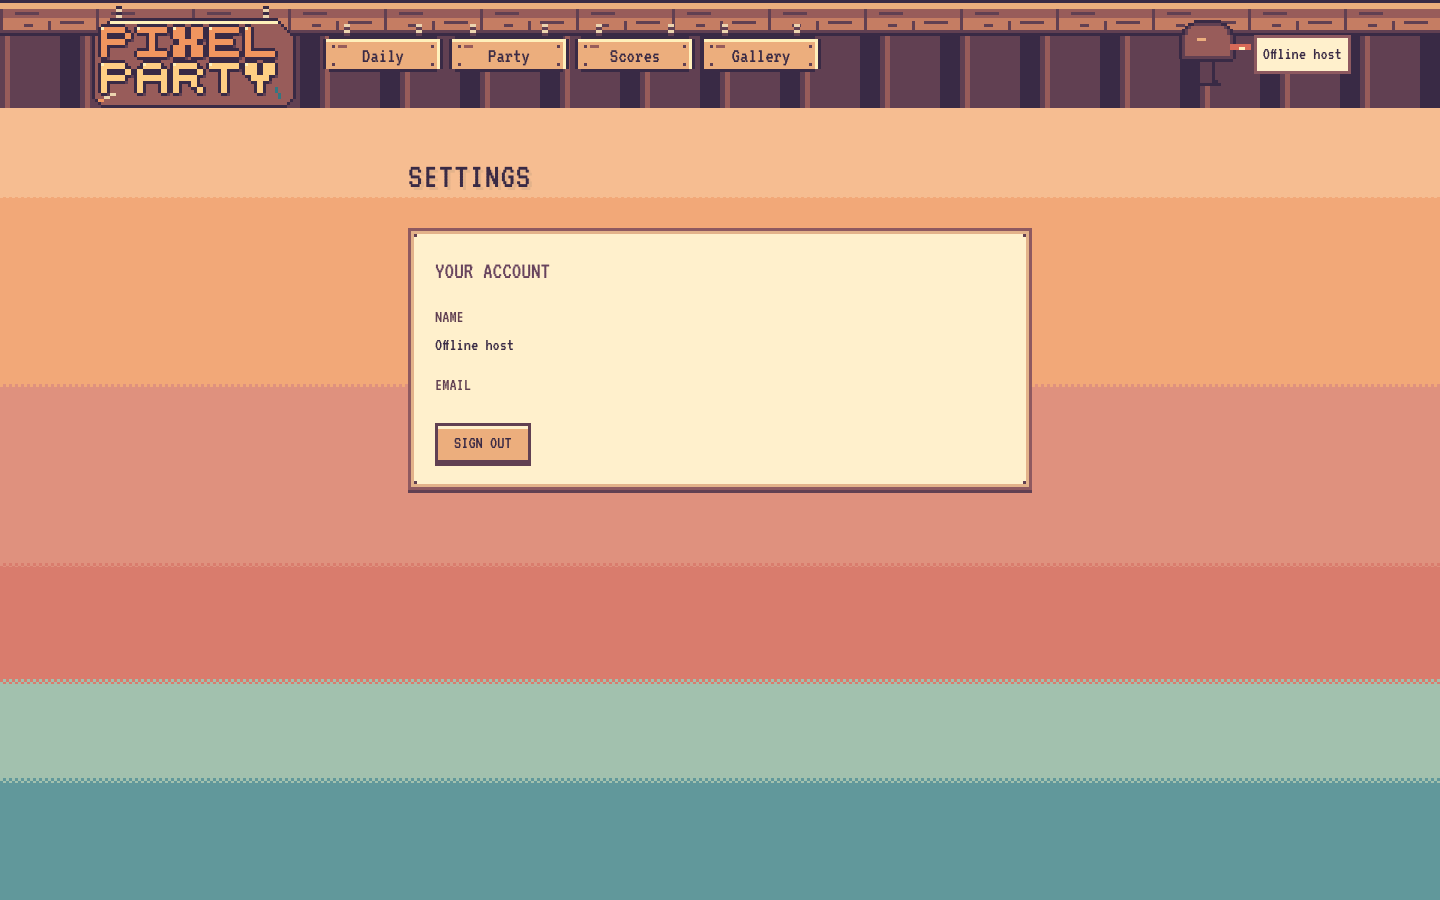
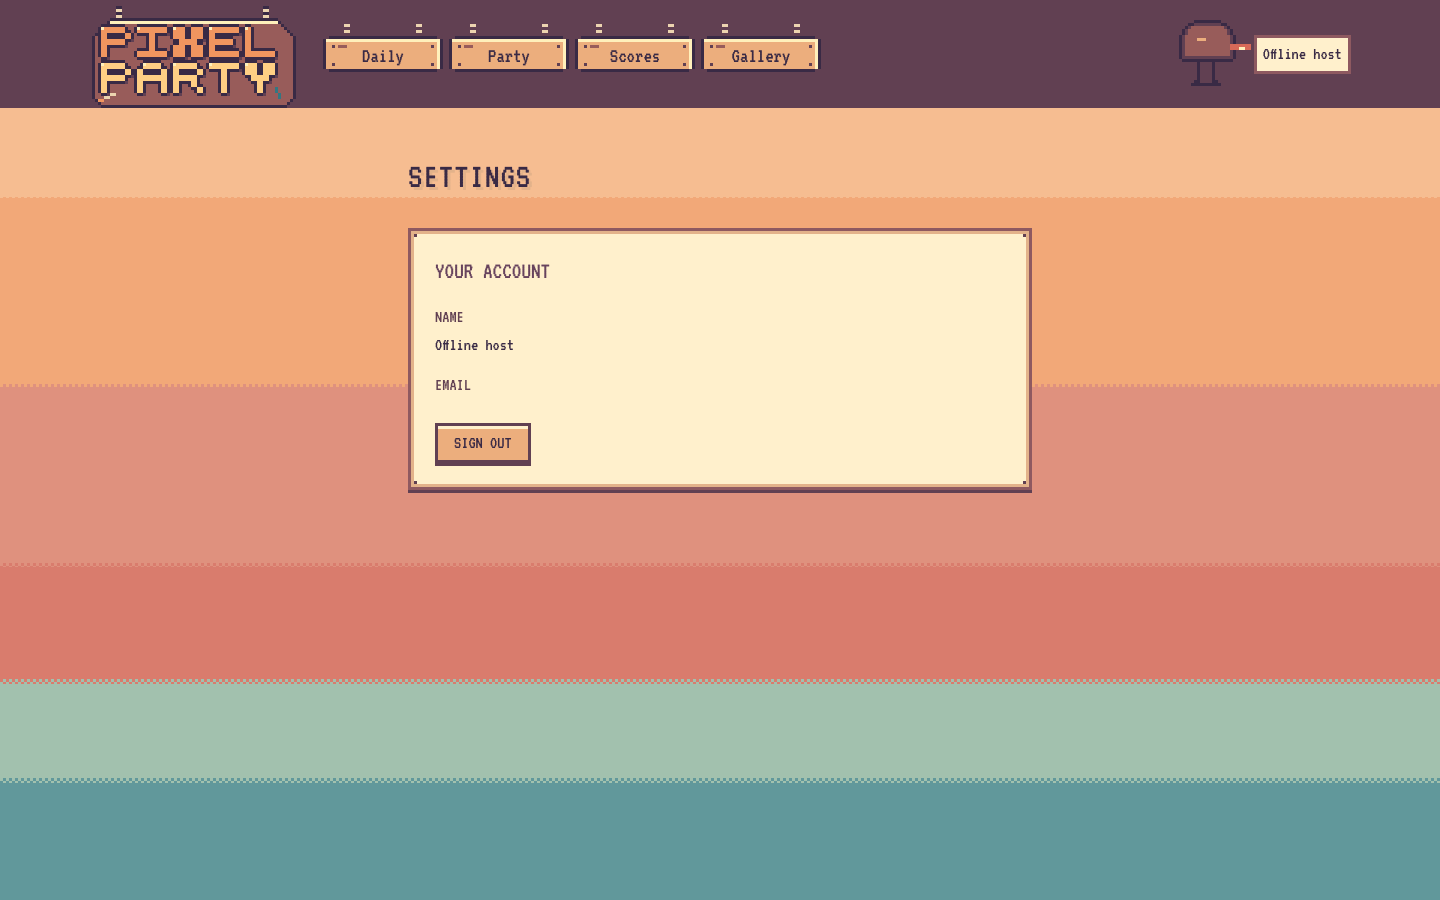
wip(porch): share roof artwork across navigation

Changed region(s): [[0.0, 0.0, 1.0, 0.1244]]

diff --git a/src/components/Navigation.tsx b/src/components/Navigation.tsx
@@ -6,19 +6,11 @@ import type { Role } from '../constants'
 import { nav } from '../nav'
 import { P } from '../scene/palette'
 import { PixelScene } from '../scene/PixelScene'
+import { drawPorchRoof } from '../scene/porch/drawPorch'
 import { defineSprite, drawSprite, type Sprite } from '../scene/sprite'
 import { DropdownMenu, DropdownMenuContent, DropdownMenuItem, DropdownMenuLabel, DropdownMenuSeparator, DropdownMenuTrigger } from './ui'
 
 const woodPalette = { a: P.wood[0], b: P.wood[1], c: P.wood[2], d: P.wood[3], e: P.wood[4], f: P.sun[4], g: P.flame[1], h: P.paper[3], i: P.sea[1], j: P.sun[2] }
-const beam = defineSprite(Array.from({ length: 12 }, (_, y) => Array.from({ length: 32 }, (_, x) => {
-  if (y === 0 || y === 11) return 'a'
-  if (y === 1 || y === 2) return 'e'
-  if (y === 10) return 'b'
-  if (x === 0 || (x === 16 && y > 6)) return 'b'
-  if ((y === 4 && x > 4 && x < 13) || (y === 7 && x > 19 && x < 28) || (y === 8 && x > 7 && x < 11)) return 'b'
-  return y < 6 ? 'c' : 'd'
-}).join('')), woodPalette)
-
 function plank(width: number, active = false): Sprite {
   return defineSprite(Array.from({ length: 16 }, (_, y) => Array.from({ length: width }, (_, x) => {
     if (y < 4) return x === 7 || x === 8 || x === width - 9 || x === width - 8 ? (y % 2 ? 'b' : 'h') : '.'
@@ -71,11 +63,11 @@ const logoSign = (() => {
 })()
 function drawRoofStrip(ctx: CanvasRenderingContext2D) {
   const { width, height } = ctx.canvas
-  ctx.fillStyle = P.wood[0]; ctx.fillRect(0, 0, width, height)
-  for (let x = 0; x < width; x += 16) {
-    ctx.fillStyle = P.wood[1]; ctx.fillRect(x, 0, 12, height)
-    ctx.fillStyle = P.wood[2]; ctx.fillRect(x + 1, 0, 1, height)
-  }
+  ctx.fillStyle = P.wood[1]; ctx.fillRect(0, 0, width, height)
+  const root = ctx.canvas.closest('.pixel-scene')
+  const scale = ctx.canvas.getBoundingClientRect().width / width
+  const roofTop = root && scale ? Math.max(0, Math.floor((height - root.getBoundingClientRect().height / scale) / 2)) : 0
+  drawPorchRoof(ctx, roofTop)
 }
 const lantern = defineSprite([
   '.......a.......', '......aba......', '.....ababa.....', '...j.abeba.j...', '..j.jafffa.jj..',
@@ -132,7 +124,6 @@ export default function Navigation() {
   return <>
     <nav data-testid="app-navigation" className="porch-nav">
       {location.pathname !== '/home' && <PixelScene draw={drawRoofStrip} className="porch-nav__roof" />}
-      <div className="porch-nav__beam" aria-hidden="true">{Array.from({ length: 40 }, (_, index) => <SpriteImage key={index} sprite={beam} />)}</div>
       <div className="porch-nav__row">
         <Link to="/home" aria-label="Pixel Party, home" className="porch-nav__logo"><SpriteImage sprite={logoSign} /></Link>
         <div className="porch-nav__links">{visibleNav.map(navLink)}</div>

diff --git a/src/scene/porch/drawPorch.ts b/src/scene/porch/drawPorch.ts
@@ -12,6 +12,14 @@ export interface PorchOptions {
   roofTop?: number
 }
 
+export function drawPorchRoof(ctx: CanvasRenderingContext2D, roofTop: number): void {
+  const width = ctx.canvas.width
+  const rect = (x: number, y: number, w: number, h: number, color: string) => { ctx.fillStyle = color; ctx.fillRect(x, y, w, h) }
+  rect(0, roofTop, width, 16, P.wood[1])
+  for (let x = 0; x < width; x += 18) { rect(x, roofTop + 7, 3, 9, P.wood[0]); rect(x + 3, roofTop + 7, 1, 9, P.wood[2]) }
+  rect(0, roofTop, width, 7, P.wood[0]); rect(0, roofTop + 1, width, 4, P.wood[2]); rect(0, roofTop + 6, width, 1, P.wood[4])
+}
+
 export function drawPorch(ctx: CanvasRenderingContext2D, frame: number, opts: PorchOptions): void {
   const portrait = ctx.canvas.height > ctx.canvas.width
   const layout = porchLayout[portrait ? 'portrait' : 'landscape']
@@ -85,9 +93,7 @@ export function drawPorch(ctx: CanvasRenderingContext2D, frame: number, opts: Po
   for (let y = 12; y < floor; y += 7) { rect(0, y, wallWidth, 1, P.wood[1]); rect(0, y + 1, wallWidth, 1, P.wood[3]) }
   rect(wallWidth - 5, 8, 5, floor - 8, P.wood[0]); rect(wallWidth - 3, 8, 2, floor - 8, P.wood[4])
   const roofTop = opts.roofTop ?? 0
-  rect(0, roofTop, width, 16, P.wood[1])
-  for (let x = 0; x < width; x += 18) { rect(x, roofTop + 7, 3, 9, P.wood[0]); rect(x + 3, roofTop + 7, 1, 9, P.wood[2]) }
-  rect(0, roofTop, width, 7, P.wood[0]); rect(0, roofTop + 1, width, 4, P.wood[2]); rect(0, roofTop + 6, width, 1, P.wood[4])
+  drawPorchRoof(ctx, roofTop)
   if (!portrait) {
     rect(19, 38, 25, 32, P.wood[0]); rect(21, 40, 21, 28, P.wood[3]); rect(23, 42, 17, 24, P.sun[3])
     rect(30, 42, 2, 24, P.wood[1]); rect(23, 53, 17, 2, P.wood[1])

diff --git a/tests/offline/porch.spec.ts b/tests/offline/porch.spec.ts
@@ -209,11 +209,11 @@ test('mailbox menu provides account actions', async ({ page }) => {
   for (const name of ['My gallery', 'Settings', 'Sign out']) await expect(page.getByRole('menuitem', { name })).toBeVisible()
 })
 
-test('navigation artwork uses a substantial beam and mailbox', async ({ page }) => {
+test('navigation artwork uses the scene roof and mailbox', async ({ page }) => {
   await page.setViewportSize({ width: 1280, height: 720 })
   await setup(page)
   await page.goto(`${origin}/party`)
-  const beam = page.locator('.porch-nav__beam canvas').first()
+  const beam = page.locator('.porch-nav__roof canvas').first()
   const mailbox = page.getByRole('button', { name: 'Account menu' }).locator('canvas').first()
   await expect(beam).toBeVisible()
   await expect(mailbox).toBeVisible()

diff --git a/src/themes.css b/src/themes.css
@@ -89,7 +89,7 @@
 .porch-nav__mail-art { position: relative; display: block; }
 .porch-nav__flag { position: absolute; top: calc(var(--px) * 3); right: 0; }
 .porch-nav__username { max-width: 120px; overflow: hidden; text-overflow: ellipsis; white-space: nowrap; background: #fff0cc; border: var(--px) solid #8e5960; padding: var(--px) calc(var(--px) * 2); font-size: 18px; }
-.porch-nav__toggle { display: none; align-self: center; align-items: center; justify-content: center; min-width: 44px; min-height: 44px; color: #392a45; }
+.porch-nav__toggle { display: none; align-self: center; align-items: center; justify-content: center; min-width: 44px; min-height: 44px; color: #fff0cc; }
 .porch-nav__mobile { display: none; }
 @media (max-width: 767px) {
   .porch-nav__links { display: none; }
